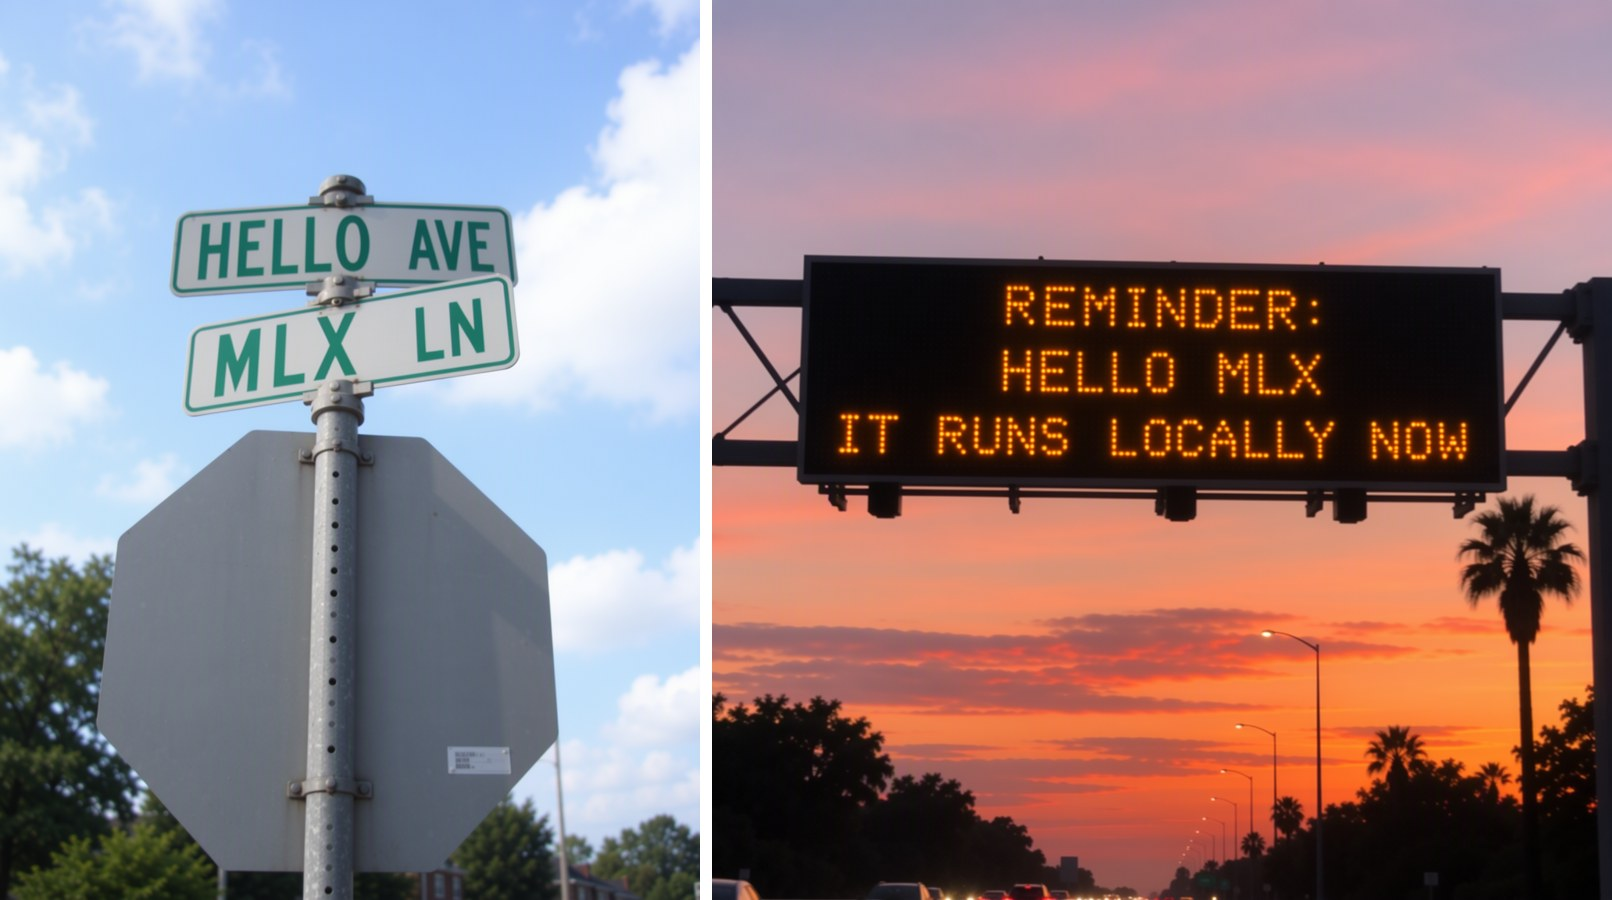
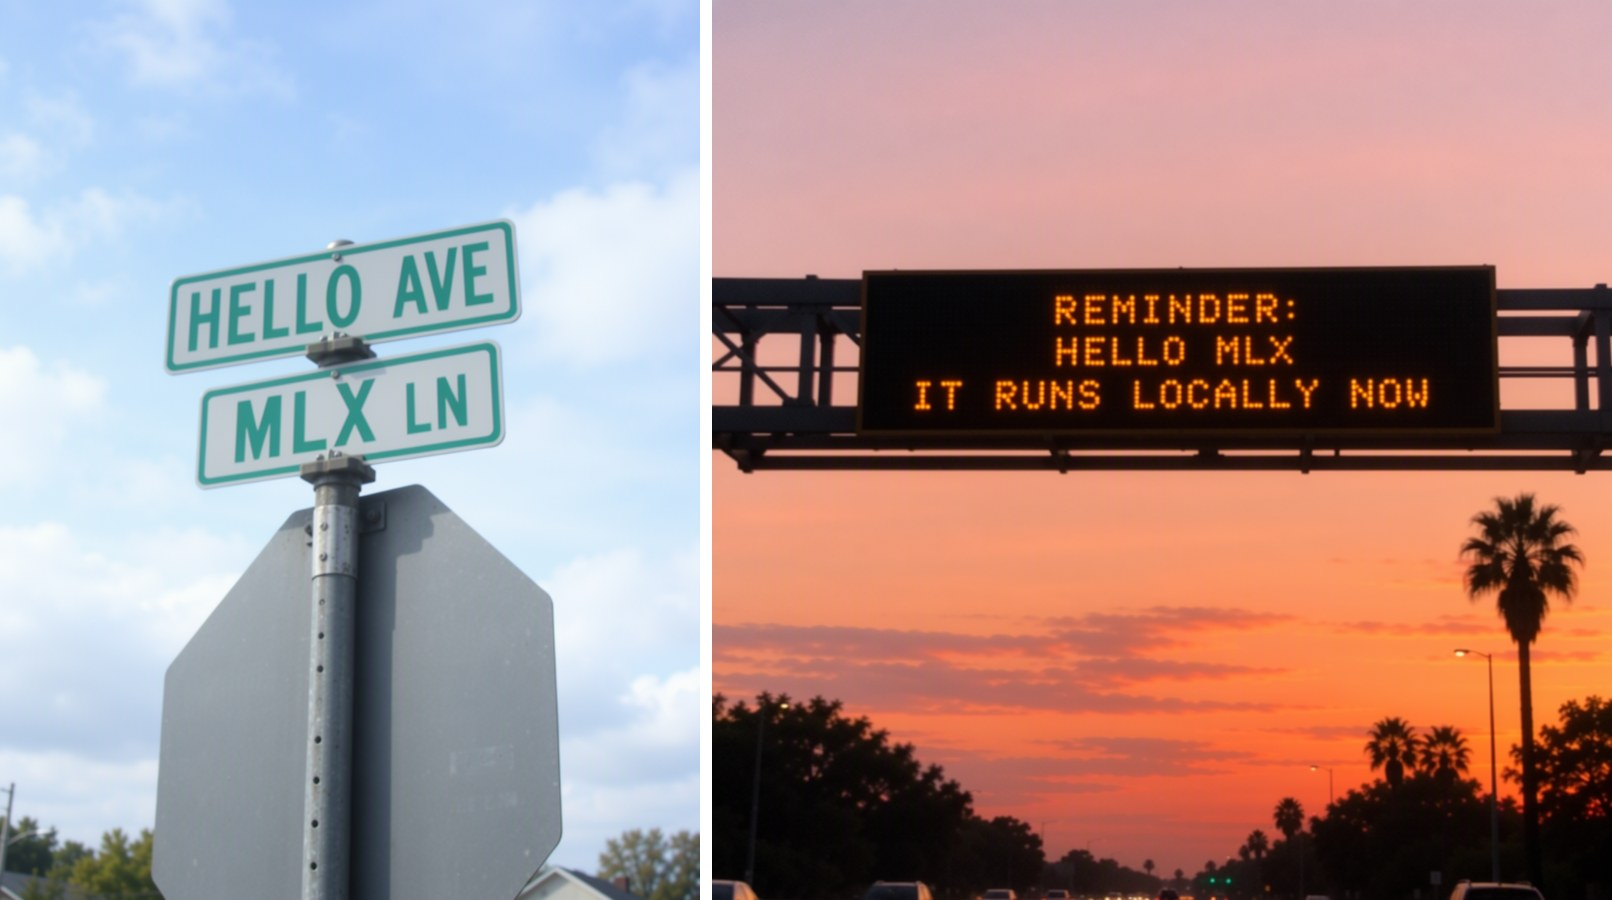
Turbo: original-model composition steps by default (--turbo quality), --turbo fast for the adapter alone
The DMD adapter idealizes content in the high-noise composition steps (glossy leather, young hands,
beauty-filter skin, grid-regular cobbles). Running the first 2 of 8 steps on the original model with CFG
restores its content and materials for +21% time at 1024² (~80 s). Overnight study: 16 texture prompts,
calibrated detail metrics, DINOv2 statistics, crops and blind A/B (preferred on 12/16).

Adds per-step schedules to Request (sigmas, step_guidance, step_lora) and lora.set_strength.

diff --git a/moss_image_mlx/cli.py b/moss_image_mlx/cli.py
@@ -5,7 +5,7 @@ Examples:
   moss-mlx "A poster titled HELLO" --model ... --seeds 1,2,3,4 -o poster.png      # one load, four images
   moss-mlx --parameters assets/images/005/parameters.json --model ... --transformer .../MOSS-Image-Base/transformer
   moss-mlx --batch jobs.jsonl --model ...      # one JSON object per line (Request fields, or {"parameters": path})
-  moss-mlx "A poster titled HELLO" --turbo -o fast.png   # 8-step distilled adapter, no CFG: ~1 min at 1024^2
+  moss-mlx "A poster titled HELLO" --turbo -o fast.png   # few-step mode (~80 s at 1024^2); --turbo fast: ~67 s
 """
 
 import argparse
@@ -22,6 +22,28 @@ TIERS = {"8bit": "VisualInference/MOSS-Image-SFT-MLX-8bit", "compact": "VisualIn
 # scheduler, no CFG. Pinned so a re-upload upstream can't silently change results.
 TURBO = {"repo": "lodestones/MOSS-Image-SFT-8-steps-dmd", "file": "lora_latest.safetensors",
          "revision": "f95df83b5e90ae91ea412434b3f9b7f1c8c6314f", "strength": 0.7, "steps": 8}
+# Turbo profiles: the first `base_steps` steps run the original model with CFG (the distilled adapter, left to itself,
+# idealizes content in these composition steps: younger, glossier, smoother), the rest run the adapter without CFG.
+# `finish_shift` is the schedule shift of the adapter steps. See README "Turbo" for the evaluation.
+TURBO_PROFILES = {
+    "fast": {"base_steps": 0, "finish_shift": 5.0},
+    "quality": {"base_steps": 2, "finish_shift": 5.0},
+}
+DEFAULT_TURBO = "quality"
+
+
+def turbo_schedule(profile: str, guidance: float = 3.0):
+    """(sigmas, per-step CFG, per-step adapter strength) for a turbo profile, on the snapped 8-step grids."""
+    from .scheduler import sigmas_for
+
+    cfg = TURBO_PROFILES[profile]
+    grid = [float(v) for v in sigmas_for(TURBO["steps"], 5.0)]
+    k = cfg["base_steps"]
+    head = grid[: k + 1]  # composition steps on the turbo grid: 1 -> .968 -> .926 -> ...
+    tail = [float(v) for v in sigmas_for(TURBO["steps"], cfg["finish_shift"]) if v < head[-1] - 1e-6]
+    sigmas = head + tail
+    n = len(sigmas) - 1
+    return sigmas, [guidance] * k + [1.0] * (n - k), [0.0] * k + [1.0] * (n - k)
 
 
 def default_model() -> str:
@@ -121,8 +143,9 @@ def main(argv=None):
     p.add_argument("--precise", action="store_true", help="fp32 residual stream and elementwise ops (bf16 matmuls)")
     p.add_argument("--no-cache", action="store_true", help="Do not read or write the prompt-embedding cache")
     p.add_argument("--keep-resident", action="store_true", help="Do not free components between stages")
-    p.add_argument("--turbo", action="store_true", help="Few-step distilled adapter (lodestones 8-step DMD at 0.7): "
-                                                        "8 steps, no CFG, ~1 min at 1024^2. --steps 4 also works")
+    p.add_argument("--turbo", nargs="?", const=DEFAULT_TURBO, choices=sorted(TURBO_PROFILES),
+                   help=f"Few-step mode with the distilled adapter. Profiles: {', '.join(sorted(TURBO_PROFILES))} "
+                        f"(default {DEFAULT_TURBO}); see README")
     p.add_argument("--lora", action="append", default=[], metavar="FILE[@STRENGTH]",
                    help="Apply a kohya-format DiT LoRA unmerged (repeatable)")
     args = p.parse_args(argv)
@@ -138,11 +161,10 @@ def main(argv=None):
             base[name] = getattr(args, name)
     if args.uncond_skip_layers is not None:
         base["uncond_skip_layers"] = _layers(args.uncond_skip_layers)
-    if args.turbo:  # the distilled schedule: no CFG, so no negative branch; explicit flags still win
-        if args.steps is None:  # also overrides a --parameters file's 50 steps and CFG
-            base["steps"] = TURBO["steps"]
-        if args.guidance is None:
-            base["guidance"] = 1.0
+    if args.turbo:  # per-step schedule: original model + CFG for the composition steps, then the adapter
+        sigmas, guidance, lora = turbo_schedule(args.turbo, args.guidance or 3.0)
+        base.update(sigmas=sigmas, step_guidance=guidance, step_lora=lora, steps=len(sigmas) - 1,
+                    guidance=max(guidance))
 
     jobs = []
     if args.batch:
@@ -185,7 +207,7 @@ def main(argv=None):
         save(image, req, paths[id(req)], {"timings": dict(pipe.timings), "precise": args.precise,
                                           "dit_quant": args.dit_quant or "bf16", "te_quant": args.te_quant or "bf16",
                                           "loras": [{"file": Path(f).name, "strength": s} for f, s in loras],
-                                          "turbo": TURBO if args.turbo else None})
+                                          "turbo": {**TURBO, "profile": args.turbo} if args.turbo else None})
         print(paths[id(req)])
     print(json.dumps(pipe.timings), file=sys.stderr)
 

diff --git a/moss_image_mlx/pipeline.py b/moss_image_mlx/pipeline.py
@@ -21,6 +21,7 @@ import mlx.core as mx
 import numpy as np
 
 from .dit import load_transformer
+from .lora import set_strength
 from .quantize import describe, quantize_dit, quantize_text_encoder
 from .scheduler import sigmas_for, timesteps_for
 from .text_encoder import TextEncoder
@@ -44,6 +45,18 @@ class Request:
     slg_start: float = 0.0
     slg_stop: float = 1.0
     max_sequence_length: int = 4096
+    # Per-step overrides (empty = off): an explicit sigma schedule ending in 0 (replaces steps/shift), and per-step
+    # CFG scale and adapter strength, e.g. original model + CFG for the composition steps, then a turbo adapter.
+    sigmas: list[float] = field(default_factory=list)
+    step_guidance: list[float] = field(default_factory=list)
+    step_lora: list[float] = field(default_factory=list)
+
+    @property
+    def n_steps(self) -> int:
+        return len(self.sigmas) - 1 if self.sigmas else self.steps
+
+    def uses_cfg(self) -> bool:
+        return any(g != 1.0 for g in (self.step_guidance or [self.guidance]))
 
     def validate(self, depth: int):
         if self.width <= 0 or self.height <= 0 or self.width % 16 or self.height % 16:
@@ -52,6 +65,11 @@ class Request:
             raise ValueError("guidance must be finite and nonnegative")
         if not 0 <= self.slg_start <= self.slg_stop <= 1:
             raise ValueError("require 0 <= slg_start <= slg_stop <= 1")
+        if self.sigmas and (self.sigmas[-1] != 0 or any(a <= b for a, b in zip(self.sigmas, self.sigmas[1:]))):
+            raise ValueError("sigmas must decrease strictly and end at 0")
+        for name in ("step_guidance", "step_lora"):
+            if getattr(self, name) and len(getattr(self, name)) != self.n_steps:
+                raise ValueError(f"{name} needs one value per step ({self.n_steps})")
         for layers in (self.uncond_skip_layers, self.slg_layers):
             if any(type(i) is not int or not 0 <= i < depth for i in layers):
                 raise ValueError(f"skip layers must be integer block indices in [0, {depth})")
@@ -96,18 +114,21 @@ def _sample(model, req: Request, positive, negative, latents, on_step):
     req.validate(len(model.layers))
     if latents is None:
         latents = mx.array(randn((1, model.config["latent_channels"], req.height // 16, req.width // 16), req.seed))
-    sigmas = sigmas_for(req.steps, req.shift)
+    sigmas = np.array(req.sigmas, dtype=np.float32) if req.sigmas else sigmas_for(req.steps, req.shift)
     timesteps = timesteps_for(sigmas)
     n = len(timesteps)
-    do_cfg = req.guidance != 1.0 and negative is not None
     for i, t in enumerate(timesteps):
         skip_active = req.slg_start <= i / n < req.slg_stop
+        guidance = req.step_guidance[i] if req.step_guidance else req.guidance
+        do_cfg = guidance != 1.0 and negative is not None
+        if req.step_lora or getattr(model, "_lora_strength", 1.0) != 1.0:
+            set_strength(model, req.step_lora[i] if req.step_lora else 1.0)
         cond = model(latents, float(t), positive).astype(mx.float32)
         prediction = cond
         if do_cfg:
             skip = req.uncond_skip_layers if (req.uncond_skip_layers and skip_active) else ()
             uncond = model(latents, float(t), negative, skip).astype(mx.float32)
-            prediction = uncond + req.guidance * (cond - uncond)
+            prediction = uncond + guidance * (cond - uncond)
         if req.slg_layers and req.slg_scale > 0 and skip_active:
             skipped = model(latents, float(t), positive, req.slg_layers).astype(mx.float32)
             if not do_cfg:
@@ -229,7 +250,7 @@ class MOSSImagePipeline:
         t0 = time.perf_counter()
         texts, index = [], {}
         for r in requests:
-            for t in ([r.prompt] + ([r.negative_prompt] if r.guidance != 1.0 else [])):
+            for t in ([r.prompt] + ([r.negative_prompt] if r.uses_cfg() else [])):
                 if (t, r.max_sequence_length) not in index:
                     index[(t, r.max_sequence_length)] = len(texts)
                     texts.append((t, r.max_sequence_length))
@@ -245,7 +266,7 @@ class MOSSImagePipeline:
         for n, r in enumerate(requests):
             ts = time.perf_counter()
             pos = embeds[(r.prompt, r.max_sequence_length)]
-            neg = embeds[(r.negative_prompt, r.max_sequence_length)] if r.guidance != 1.0 else None
+            neg = embeds[(r.negative_prompt, r.max_sequence_length)] if r.uses_cfg() else None
             last = n == len(requests) - 1
             latents = self.denoise(r, pos, neg, on_step=on_step, keep=not last)
             td = time.perf_counter()

diff --git a/tests/test_lora.py b/tests/test_lora.py
@@ -50,3 +50,29 @@ def test_lora_over_quantized_linear(tmp_path):
     assert isinstance(layer.base, nn.QuantizedLinear)
     y = layer(mx.ones((2, 64), dtype=mx.bfloat16))
     assert y.dtype == mx.bfloat16 and y.shape == (2, 32)
+
+
+def test_turbo_profiles_schedule():
+    from moss_image_mlx.cli import TURBO_PROFILES, turbo_schedule
+
+    fast, g, lo = turbo_schedule("fast")
+    assert len(fast) == 9 and fast[-1] == 0 and set(g) == {1.0} and set(lo) == {1.0}
+    sig, g, lo = turbo_schedule("quality")
+    assert sig == fast  # same grid; only the first two steps change model
+    assert g[:2] == [3.0, 3.0] and lo[:2] == [0.0, 0.0] and set(g[2:]) == {1.0} and set(lo[2:]) == {1.0}
+    assert sum(1 for x in lo if x == 0.0) == TURBO_PROFILES["quality"]["base_steps"]
+
+
+def test_request_per_step_validation():
+    import pytest
+
+    from moss_image_mlx.pipeline import Request
+
+    r = Request(prompt="x", sigmas=[1.0, 0.5, 0.0], step_guidance=[3.0, 1.0], step_lora=[0.0, 1.0])
+    r.validate(42)
+    assert r.n_steps == 2 and r.uses_cfg()
+    assert not Request(prompt="x", guidance=1.0).uses_cfg()
+    with pytest.raises(ValueError):
+        Request(prompt="x", sigmas=[1.0, 0.5, 0.1]).validate(42)
+    with pytest.raises(ValueError):
+        Request(prompt="x", sigmas=[1.0, 0.5, 0.0], step_lora=[1.0]).validate(42)

diff --git a/moss_image_mlx/lora.py b/moss_image_mlx/lora.py
@@ -22,6 +22,8 @@ class LoRALinear(nn.Module):
 
     def __call__(self, x):
         y = self.base(x)
+        if self.scale == 0:  # adapter switched off for this call: exactly the base layer, at base cost
+            return y
         return y + ((x.astype(self.down.dtype) @ self.down.T) @ self.up.T).astype(y.dtype) * self.scale
 
 
@@ -69,3 +71,15 @@ def apply_lora(model, path: str | Path, strength: float = 1.0, dtype=mx.bfloat16
     del weights
     mx.clear_cache()
     return len(names)
+
+
+def set_strength(model, strength: float):
+    """Scale every applied adapter by `strength` (relative to the strength it was applied with); 0 = base model."""
+    if getattr(model, "_lora_strength", 1.0) == strength:
+        return
+    for _, module in model.named_modules():
+        if isinstance(module, LoRALinear):
+            if not hasattr(module, "base_scale"):
+                module.base_scale = module.scale
+            module.scale = module.base_scale * strength
+    model._lora_strength = strength

diff --git a/README.md b/README.md
@@ -52,26 +52,42 @@ save(pipe(req), req, "ramen.png")
 moss-mlx "A highway LED sign at sunset that reads \"HELLO MLX\"" --turbo -o sign.png
 ```
 
-`--turbo` applies [lodestones' 8-step DMD adapter](https://huggingface.co/lodestones/MOSS-Image-SFT-8-steps-dmd) (Apache-2.0, pinned revision) the way its own demo runs it: unmerged at strength 0.7, the release scheduler, 8 steps, no CFG. It is downloaded once (1.2 GB).
+`--turbo` uses [lodestones' 8-step DMD adapter](https://huggingface.co/lodestones/MOSS-Image-SFT-8-steps-dmd) (Apache-2.0, pinned revision), applied unmerged at strength 0.7, without CFG. It is downloaded once (1.2 GB).
 
-![The same two road-sign prompts rendered with --turbo in about 70 seconds each: HELLO AVE and MLX LN street signs, and the HELLO MLX highway LED sign at sunset](docs/turbo.jpg)
+The default profile, `quality`, runs the first 2 of the 8 steps on the original model with CFG, and the other 6 on the adapter.
 
-*`--turbo`, 8bit tier, seed 42, about 70 s each on an M4 Pro.*
+The adapter on its own idealizes what it draws:
+- glossy uniform leather where the original draws worn leather;
+- young, clean hands for "weathered hands";
+- beauty-filter skin;
+- grid-regular cobblestones.
 
-| 1024² on an M4 Pro, 8bit tier | Time per image | Peak memory | Text (OCR, 10 text and layout prompts) |
+Those choices are made in the first, high-noise steps. Handing just those steps back to the original model restores its content, materials and prompt adherence. The adapter then finishes in 6 steps.
+
+![The two road-sign prompts rendered with --turbo in about 80 seconds each: HELLO AVE and MLX LN street signs, and the HELLO MLX highway LED sign at sunset](docs/turbo.jpg)
+
+*`--turbo`, 8bit tier, seed 42, about 80 s each at 1024² on an M4 Pro.*
+
+| 1024² on an M4 Pro, 8bit tier | Model evaluations | Time per image | Peak memory |
 |---|---|---|---|
-| Official 50 steps, CFG 3 | ~12½ min | 9.3 GB | reference |
-| **`--turbo`** (8 steps) | **~70 s** | **9.2 GB** | **identical to 50 steps on every prompt** |
-| `--turbo --steps 4` | ~35 s | 9.2 GB | small handwriting starts to fail (one Chinese note: 61%) |
+| Official 50 steps, CFG 3 | 100 | ~12½ min | 9.3 GB |
+| **`--turbo`** (profile `quality`) | 10 | **~80 s** | 9.3 GB |
+| `--turbo fast` (adapter only) | 8 | ~67 s | 9.2 GB |
 
-What turbo trades:
-- **Compositions differ:** it's a different sampler, so a seed doesn't give the 50-step picture.
-- **Finer photographic detail is softer:** skin pores, fabric and wood grain come out smoother.
-- **It sometimes adds text nobody asked for:** a cap with a made-up word, for example.
+How `quality` was chosen: an overnight study of where the turbo's waxy look comes from, covering 16 hard texture and material prompts plus text and layout controls. It compared against the original model with calibrated detail metrics, DINOv2 texture statistics, 1:1 crops and blind A/B judgements.
+- **Blind preference:** `quality` was preferred over `fast` on 12 of 16 prompts.
+- **What didn't work:** more steps, other adapter strengths, the adapter's native sampler, stochastic re-noising, and late refinement with the original model all left the look in place or made it worse.
 
-Use the full model for final images, and turbo to explore prompts. Implementation check: in fp32, `--turbo` matches the adapter's PyTorch reference at 61.5 dB; in bf16 it's closer to that reference (30.0 dB) than the reference's own bf16 run (27.7 dB).
+What any turbo trades against the full model:
+- **Compositions differ:** a seed doesn't give the 50-step picture, and seeds aren't interchangeable between `quality` and `fast`.
+- **The finest micro-texture is a little smoother:** pores, fibres and grain.
+- **Text holds up.** `fast` read the same as 50 steps on the 10 text and layout eval prompts. `quality` spelled the sign and the handwritten Chinese note correctly at 1024²; its darker, more realistic lighting makes very small, dim text slightly harder to read.
 
-Any kohya-format DiT LoRA also works: `--lora path/to/adapter.safetensors@0.8`.
+Use the full model for final images, and turbo to explore prompts.
+
+Implementation check: in fp32, the adapter path matches its PyTorch reference at 61.5 dB; in bf16 it's closer to that reference (30.0 dB) than the reference's own bf16 run (27.7 dB).
+
+Any kohya-format DiT LoRA also works: `--lora path/to/adapter.safetensors@0.8`. Per-step control is available in Python through `Request(sigmas=..., step_guidance=..., step_lora=...)`.
 
 ## Tiers
 
@@ -89,7 +105,7 @@ Measured on a Mac mini M4 Pro (48 GB), 1024², official defaults:
 - Stages load and free in turn, and the VAE decodes in seamless strips, so the peak is the largest single stage rather than their sum.
 - Batch mode (`--seeds`, `--batch`) keeps the transformer loaded between images: the 8bit tier then peaks at about 10.8 GB.
 
-**Speed:** a 1024² image at the official 50 steps with CFG takes about 12½ minutes on an M4 Pro. The model is compute-bound, so quantization saves memory, not time. Few-step turbo support is next.
+**Speed:** a 1024² image at the official 50 steps with CFG takes about 12½ minutes on an M4 Pro. The model is compute-bound, so quantization saves memory, not time. `--turbo` makes one in about 80 s (see Turbo).
 
 **Rejected tiers:**
 - *4-bit text encoder:* it reflowed a multi-line paragraph out of order in one of two runs, and saved no peak memory.
@@ -105,7 +121,7 @@ Measured on a Mac mini M4 Pro (48 GB), 1024², official defaults:
 | Quantized tiers with text-fidelity evidence | **yes** | bf16 only |
 | Prompt cache, batch/resident mode, layout checker | yes | no |
 | Time per 1024² image (M4 Pro, 50 steps) | ~12½ min (quantized tiers), ~11½ min (bf16) | ~11¾ min (bf16) |
-| Few-step turbo | **`--turbo`: ~70 s, text OCR identical to 50 steps** | no |
+| Few-step turbo | **`--turbo`: ~80 s at 1024², original-model composition steps** | no |
 
 *mlx-vlm figures were measured on the same machine with its default pipeline. Its peak comes from an uncapped fp32 VAE decode.*
 
@@ -148,7 +164,7 @@ Quantization runs on the CPU, one module at a time; an export takes about 30 s.
 
 - Dense, very small text can still garble, as it does in the original model.
 - The SFT checkpoint shows faint vertical banding on some skies and walls. That is the upstream checkpoint, not the port; a fix is planned.
-- Speed: the full model takes ~12 min per 1024² image; `--turbo` takes ~70 s with the trade-offs listed above.
+- Speed: the full model takes ~12 min per 1024² image; `--turbo` takes ~80 s (`--turbo fast` ~67 s), with the trade-offs listed above.
 - "Runs on 16 GB Macs" is an expectation from the measured peaks, not yet tested on a 16 GB machine. Reports welcome.
 
 ## License
